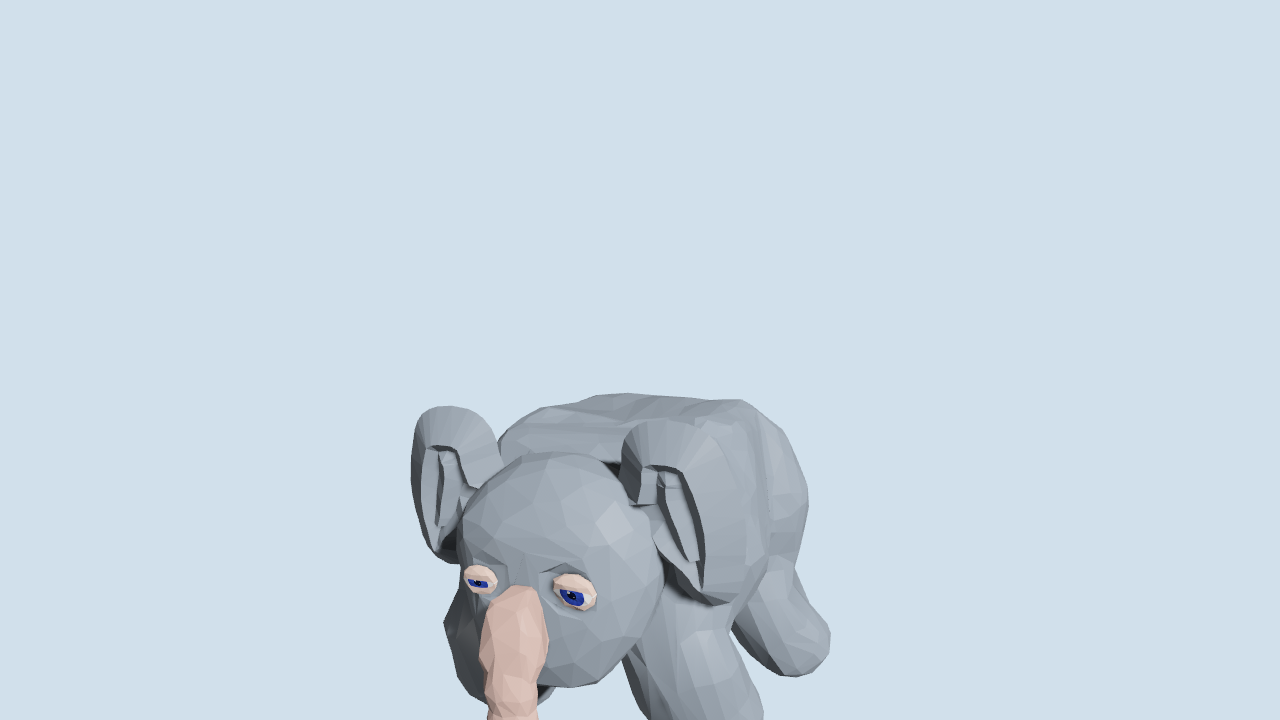
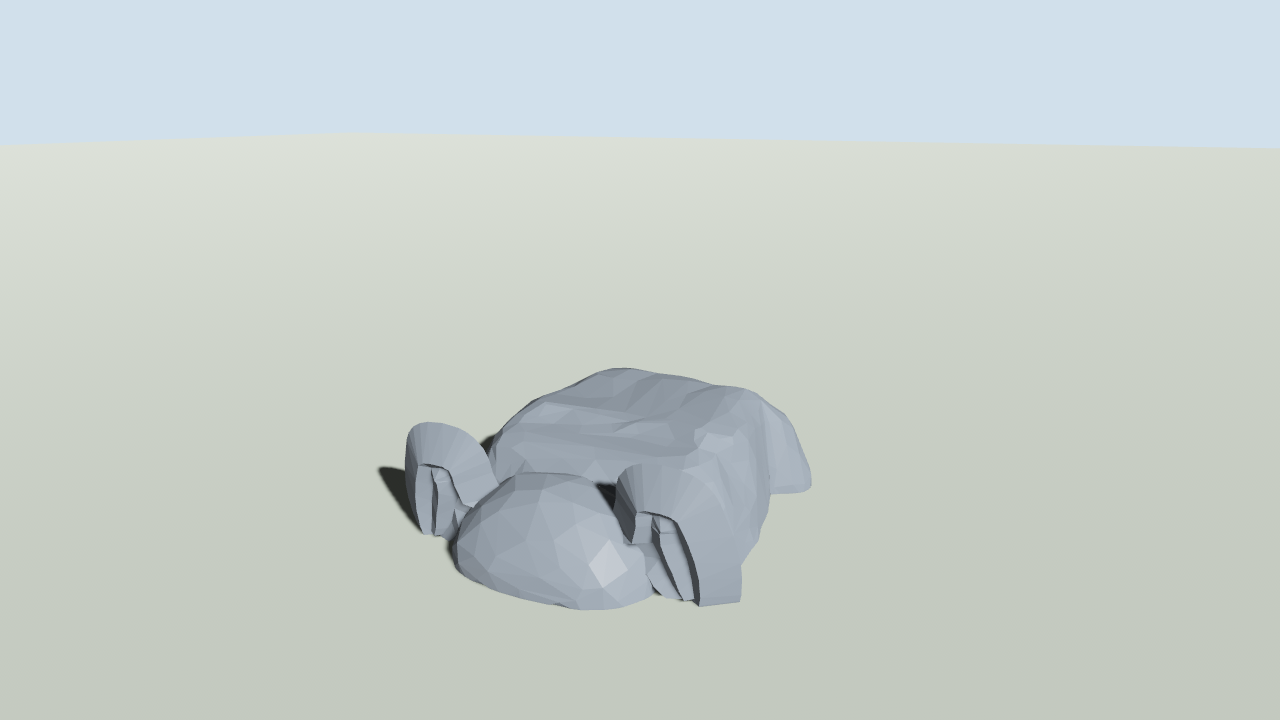
fix(playground): frame Epiphant preview capture on mesh bounds
Headless capture now unions live `CharacterPart` mesh AABBs (excluding focus rigs and the capture ground), centers the camera on that box with FOV-based distance and a small margin, and extends the bounds to include ground contact. A neutral ground plane is spawned during capture so feet and floor read clearly at 1× and 10× scale.

Regenerated all ten `animations/previews/epiphant-1130/` PNGs after verifying each frame shows the full body (four feet, trunk, ground) with sleep poses reading prone/settled.

diff --git a/maybraid/menu/character-concepts-playground/src/preview_capture.rs b/maybraid/menu/character-concepts-playground/src/preview_capture.rs
@@ -2,10 +2,15 @@
 //!
 //! See `maybraid/world/layers/mobs/characters/animations/previews/epiphant-1130/README.md`.
 
+use bevy::camera::primitives::Aabb;
+use bevy::math::bounding::Aabb3d;
+use bevy::mesh::{Mesh, VertexAttributeValues};
 use bevy::prelude::*;
 use character_motion::{sample_bray_mouth_emit, BrayMouthEmit};
-use characters::{BoneMap, CharacterMembers, CharacterRig, CharacterRigRole};
+use characters::{BoneMap, CharacterMembers, CharacterPart, CharacterRig, CharacterRigRole};
 use game_commands::GameCommandDrawerVisible;
+
+use crate::focus_reference::FocusReferenceRig;
 
 use crate::animation::ConceptAnimation;
 use crate::preview::{ConceptPreviewConfig, ConceptPreviewRoot};
@@ -95,18 +100,116 @@ pub fn load_preview_capture_settings(mut commands: Commands) {
 	}
 }
 
-/// Side / 3/4 framing that scales with encounter size (boss ≈ 20 m assembly).
-pub fn capture_camera_frame(encounter_scale: f32) -> (Vec3, Vec3) {
+/// Marks the capture ground plane (excluded from mesh bounds).
+#[derive(Component)]
+pub struct CaptureGroundPlane;
+
+/// Fallback when mesh bounds are not ready yet.
+pub fn capture_camera_frame_fallback(encounter_scale: f32) -> (Vec3, Vec3) {
 	let scale = encounter_scale.max(1.0);
-	let center = Vec3::new(0.0, 0.55 * scale, 0.0);
-	if scale <= 1.0 + f32::EPSILON {
-		let look_at = Vec3::new(0.0, 0.95, 0.0);
-		let eye = Vec3::new(2.4, 1.4, 5.2);
-		return (eye, look_at);
+	let center = Vec3::new(0.0, 0.9 * scale, 0.0);
+	let distance = 5.5 * scale;
+	let dir = Vec3::new(0.42, 0.28, 0.86).normalize();
+	(center + dir * distance, center)
+}
+
+/// Frame the full character AABB (feet + ground) in a 3/4 elevated view.
+pub fn capture_camera_frame_for_bounds(bounds: Aabb3d, aspect: f32, fov_y: f32) -> (Vec3, Vec3) {
+	const MARGIN: f32 = 1.14;
+	let mut min = Vec3::from(bounds.min);
+	let mut max = Vec3::from(bounds.max);
+	// Keep ground contact in frame.
+	min.y = min.y.min(0.0);
+	let center = (min + max) * 0.5;
+	let size = (max - min) * MARGIN;
+	let height = size.y.max(0.5);
+	let horizontal = (size.x * size.x + size.z * size.z).sqrt().max(0.5);
+	let half_fov_y = fov_y * 0.5;
+	let dist_for_height = height / (2.0 * half_fov_y.tan());
+	let half_fov_x = (fov_y * 0.5).tan() * aspect;
+	let dist_for_width = horizontal / (2.0 * half_fov_x);
+	let distance = dist_for_height.max(dist_for_width);
+	let dir = Vec3::new(0.42, 0.28, 0.86).normalize();
+	(center + dir * distance, center)
+}
+
+pub fn union_preview_mesh_bounds(
+	meshes: &Query<
+		(&Mesh3d, &GlobalTransform, Option<&Visibility>),
+		(With<CharacterPart>, Without<FocusReferenceRig>, Without<CaptureGroundPlane>),
+	>,
+	mesh_assets: &Assets<Mesh>,
+) -> Option<Aabb3d> {
+	let mut union: Option<Aabb3d> = None;
+	for (mesh3d, global, visibility) in meshes.iter() {
+		if matches!(visibility, Some(Visibility::Hidden)) {
+			continue;
+		}
+		let Some(mesh) = mesh_assets.get(&mesh3d.0) else {
+			continue;
+		};
+		let Some(world) = mesh_world_aabb(mesh, global) else {
+			continue;
+		};
+		union = Some(match union {
+			None => world,
+			Some(acc) => Aabb3d::from_min_max(acc.min.min(world.min), acc.max.max(world.max)),
+		});
 	}
-	let distance = 4.2 * scale;
-	let eye = center + Vec3::new(distance * 0.58, distance * 0.42, distance * 0.92);
-	(eye, center)
+	union
+}
+
+fn mesh_world_aabb(mesh: &Mesh, global: &GlobalTransform) -> Option<Aabb3d> {
+	let VertexAttributeValues::Float32x3(positions) = mesh.attribute(Mesh::ATTRIBUTE_POSITION)?
+	else {
+		return None;
+	};
+	let local = Aabb::enclosing(positions.iter().map(|p| Vec3::from(*p)))?;
+	let min = local.min();
+	let max = local.max();
+	let corners = [
+		Vec3::new(min.x, min.y, min.z),
+		Vec3::new(min.x, min.y, max.z),
+		Vec3::new(min.x, max.y, min.z),
+		Vec3::new(min.x, max.y, max.z),
+		Vec3::new(max.x, min.y, min.z),
+		Vec3::new(max.x, min.y, max.z),
+		Vec3::new(max.x, max.y, min.z),
+		Vec3::new(max.x, max.y, max.z),
+	];
+	let mut world_min = Vec3::splat(f32::INFINITY);
+	let mut world_max = Vec3::splat(f32::NEG_INFINITY);
+	for corner in corners {
+		let world = global.transform_point(corner);
+		world_min = world_min.min(world);
+		world_max = world_max.max(world);
+	}
+	Some(Aabb3d::from_min_max(world_min, world_max))
+}
+
+pub fn setup_capture_ground(
+	mut commands: Commands,
+	mut meshes: ResMut<Assets<Mesh>>,
+	mut materials: ResMut<Assets<StandardMaterial>>,
+	settings: Option<Res<PreviewCaptureSettings>>,
+) {
+	let Some(settings) = settings else {
+		return;
+	};
+	let scale = settings.encounter_scale.max(1.0);
+	let extent = 120.0 * scale;
+	let mesh = meshes.add(Plane3d::default().mesh().size(extent, extent));
+	let material = materials.add(StandardMaterial {
+		base_color: Color::srgb(0.78, 0.82, 0.76),
+		perceptual_roughness: 0.95,
+		..default()
+	});
+	commands.spawn((
+		Mesh3d(mesh),
+		MeshMaterial3d(material),
+		Transform::IDENTITY,
+		CaptureGroundPlane,
+	));
 }
 
 pub fn mouth_emit_gizmo_enabled(settings: Option<Res<PreviewCaptureSettings>>) -> bool {

diff --git a/maybraid/menu/character-concepts-playground/src/camera_focus.rs b/maybraid/menu/character-concepts-playground/src/camera_focus.rs
@@ -154,13 +154,45 @@ pub fn apply_camera_suggestion(
 	mut pending: ResMut<PendingCameraFocus>,
 	shadow_rigs: ShadowRigQuery,
 	bone_globals: Query<&GlobalTransform>,
-	mut cameras: Query<(&mut Transform, &mut CameraController), With<Camera3d>>,
+	preview_meshes: Query<
+		(
+			&bevy::prelude::Mesh3d,
+			&GlobalTransform,
+			Option<&Visibility>,
+		),
+		(
+			With<characters::CharacterPart>,
+			Without<crate::focus_reference::FocusReferenceRig>,
+			Without<crate::preview_capture::CaptureGroundPlane>,
+		),
+	>,
+	mesh_assets: Res<Assets<Mesh>>,
+	mut cameras: Query<(&mut Transform, &mut CameraController, &Projection), With<Camera3d>>,
 	mut last_wait_log: Local<Option<String>>,
 ) {
 	if capture_locked.is_some() {
 		if let Some(settings) = capture_settings {
-			let (eye, look_at) = crate::preview_capture::capture_camera_frame(settings.encounter_scale);
-			for (mut transform, mut controller) in &mut cameras {
+			let aspect = cameras.iter().next().map_or(16.0 / 9.0, |(_, _, projection)| {
+				match projection {
+					Projection::Perspective(p) => p.aspect_ratio,
+					_ => 16.0 / 9.0,
+				}
+			});
+			let fov_y = cameras.iter().next().map_or(std::f32::consts::FRAC_PI_4, |(_, _, projection)| {
+				match projection {
+					Projection::Perspective(p) => p.fov,
+					_ => std::f32::consts::FRAC_PI_4,
+				}
+			});
+			let (eye, look_at) = crate::preview_capture::union_preview_mesh_bounds(
+				&preview_meshes,
+				mesh_assets.as_ref(),
+			)
+				.map(|bounds| crate::preview_capture::capture_camera_frame_for_bounds(bounds, aspect, fov_y))
+				.unwrap_or_else(|| {
+					crate::preview_capture::capture_camera_frame_fallback(settings.encounter_scale)
+				});
+			for (mut transform, mut controller, _) in &mut cameras {
 				characters_playground::camera::orient_camera(
 					&mut transform,
 					&mut controller,
@@ -201,7 +233,7 @@ pub fn apply_camera_suggestion(
 	}
 
 	let target = pending.resolved_target.unwrap();
-	let Ok((mut transform, mut controller)) = cameras.single_mut() else {
+	let Ok((mut transform, mut controller, _)) = cameras.single_mut() else {
 		return;
 	};
 

diff --git a/maybraid/menu/character-concepts-playground/src/lib.rs b/maybraid/menu/character-concepts-playground/src/lib.rs
@@ -91,6 +91,7 @@ impl Plugin for CharacterConceptsPlaygroundPlugin {
 				Startup,
 				(
 					preview_capture::load_preview_capture_settings,
+					preview_capture::setup_capture_ground.after(preview_capture::load_preview_capture_settings),
 					camera::setup_camera,
 					add_lod_viewer_to_camera.after(camera::setup_camera),
 					setup_lighting,

diff --git a/maybraid/world/layers/mobs/characters/animations/previews/epiphant-1130/README.md b/maybraid/world/layers/mobs/characters/animations/previews/epiphant-1130/README.md
@@ -8,10 +8,10 @@ Captured from `character-concepts-playground` on the clothed Epiphant recipe (qu
 | `ordinary-sleep-enter.png` | `epiphant-sleep-enter` | 1× | progress `0.90` (settle) |
 | `ordinary-sleep-hold.png` | `epiphant-sleep-hold` | 1× | progress `0.35` |
 | `ordinary-wake.png` | `epiphant-wake` | 1× | progress `0.18` (front plant) |
-| `ordinary-sleep-interrupted.png` | `epiphant-sleep-hold` → `epiphant-bray` | 1× | interrupt at 18 s, frame ~24 s |
-| `boss-bray.png` … `boss-sleep-interrupted.png` | same | 10× | `CROZON_PREVIEW_ENCOUNTER_SCALE=10` (~20 m assembly) |
+| `ordinary-sleep-interrupted.png` | `epiphant-sleep-hold` → `epiphant-bray` | 1× | interrupt at 20 s, frame ~27 s |
+| `boss-bray.png` … `boss-sleep-interrupted.png` | same | 10× | `CROZON_PREVIEW_ENCOUNTER_SCALE=10`; boss interrupt at 22 s, frame ~30 s |
 
-Capture hides the creator panel and command HUD (`CROZON_PREVIEW_HIDE_UI`), pulls the camera back for boss scale, and draws the bray mouth-emit gizmo (cyan origin, yellow horizontal forward) when `CROZON_PREVIEW_DRAW_MOUTH_EMIT=1`.
+Capture hides the creator panel and command HUD (`CROZON_PREVIEW_HIDE_UI`), spawns a ground plane, frames the camera from live mesh bounds (centered, feet + ground in view), and draws the bray mouth-emit gizmo (cyan origin, yellow horizontal forward) when `CROZON_PREVIEW_DRAW_MOUTH_EMIT=1`.
 
 Regenerate:
 
